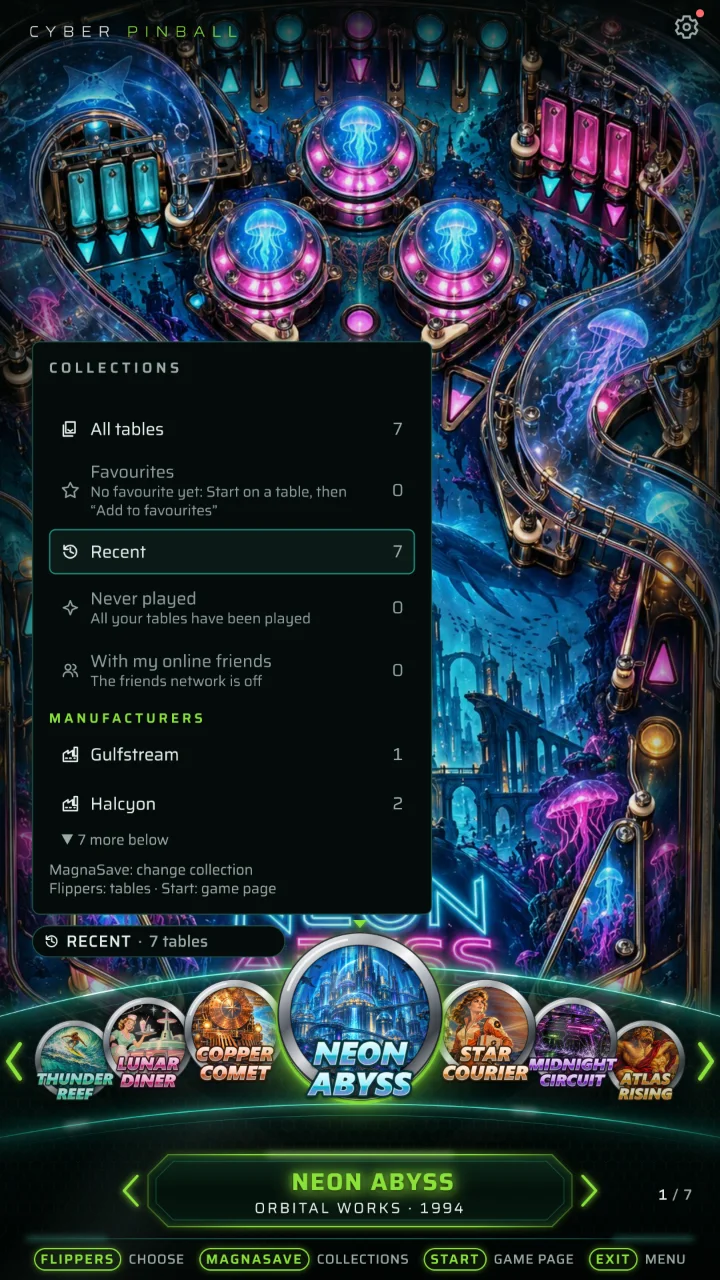
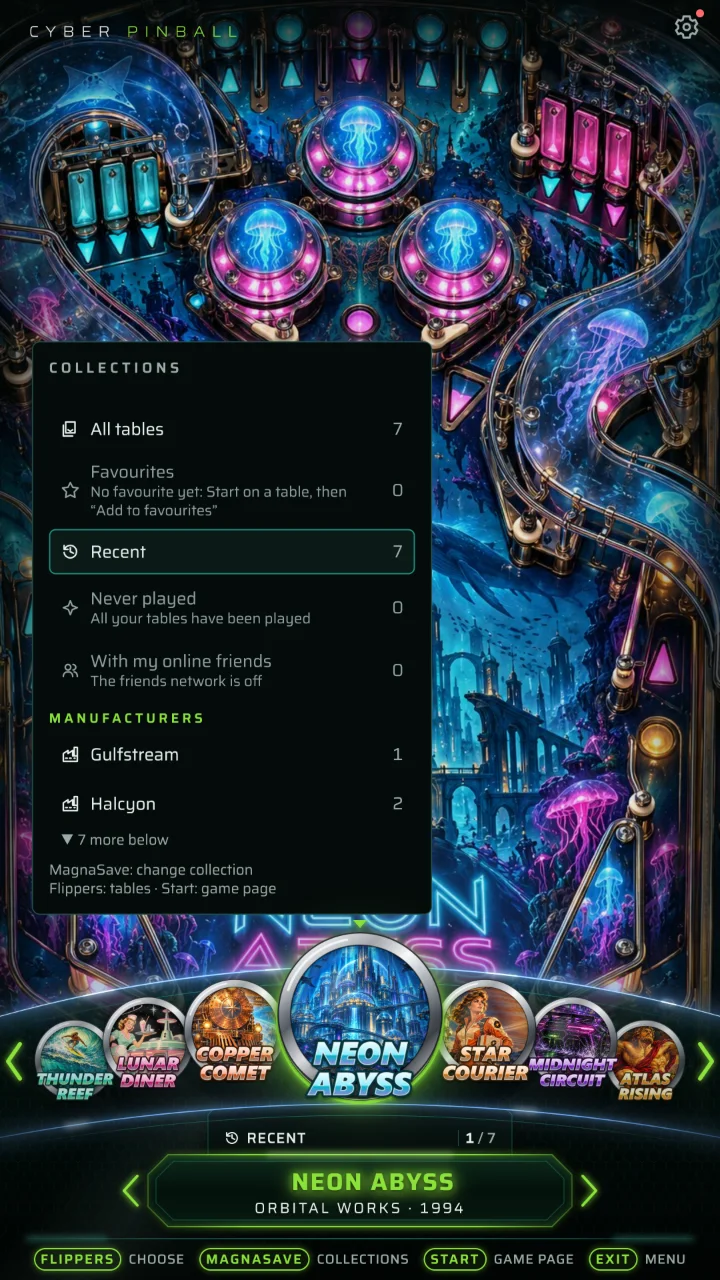
Cyber Pinball 0.1.8-essai.13

diff --git a/app/renderer/frontend.css b/app/renderer/frontend.css
@@ -367,28 +367,30 @@ html.menu-desktop .menu-count {
 /* ---------- Collections (collections.ts) : repère, étoile des favoris, liste des collections ---------- */
 
 /*
- * Repère de la collection active, zone fixe : « ☆ FAVORIS · 4 tables ». Cotes de Codex
- * (06/11/2026), en pixels de référence d'un petit côté de 1080, indépendantes du titre, du nombre
- * de tables et de la taille de la roue : 48 de haut, icône 24, texte 24. Liste en borne :
- * au-dessus des lignes ; liste au bureau : à la place de « Table sélectionnée » ; roues à
- * bandeau : au coin haut-gauche du bandeau. Verre fumé, texte blanc : le vert reste au choix de la table.
+ * Repère de la collection active, zone fixe : « ☆ FAVORIS │ 1 / 4 », la collection et la place de
+ * la table choisie dans celle-ci (choisi le 06/11/2026 parmi cinq propositions, d'après celle de
+ * Codex ; il remplace la pastille sur l'illustration et le compteur isolé). Roue Médaillons :
+ * dans l'encart dessiné sur le dessus de la plaque du titre (roues/medaillons.svg, couche du
+ * fond : l'arc inférieur de la roue passe devant son bord haut), sans fond à lui. Autres roues :
+ * la même ligne sur un fond sombre, au-dessus du titre. Liste : en tête des lignes. Rien n'y
+ * bouge d'une table à l'autre : seuls le chiffre et, d'une collection à l'autre, le nom changent.
  */
 .menu-shelf {
+  --s: var(--u);
   position: absolute;
   box-sizing: border-box;
-  display: flex;
+  display: grid;
+  grid-template-columns: max(calc(24 * var(--s)), calc(20 * var(--u))) minmax(0, 1fr) calc(1 * var(--s)) auto;
   align-items: center;
-  gap: calc(10 * var(--u));
+  gap: calc(10 * var(--s));
   left: calc(50 * var(--u));
+  right: calc(50 * var(--u));
   bottom: calc(776 * var(--u));
-  width: calc(600 * var(--u));
   height: calc(48 * var(--u));
-  padding: 0 calc(16 * var(--u));
-  border: calc(1.5 * var(--u)) solid var(--line-strong);
-  border-radius: calc(24 * var(--u));
+  padding: 0 calc(14 * var(--s));
+  border-radius: calc(5 * var(--s));
   background: var(--surface-sunken);
-  box-shadow: var(--halo-panel);
-  font-size: calc(24 * var(--u));
+  font-size: max(calc(22 * var(--s)), calc(20 * var(--u)));
   font-weight: 500;
   line-height: 1.2;
   white-space: nowrap;
@@ -399,18 +401,17 @@ html.menu-desktop .menu-count {
   display: none;
 }
 
-body.mouse .menu-shelf {
+body.mouse .menu-shelf:not(.locked) {
   cursor: pointer;
 }
 
 .menu-shelf-icon {
-  flex: none;
-  width: calc(24 * var(--u));
-  height: calc(24 * var(--u));
+  width: max(calc(24 * var(--s)), calc(20 * var(--u)));
+  height: max(calc(24 * var(--s)), calc(20 * var(--u)));
   color: var(--ink);
 }
 
-/* Seul un vrai libellé long (un fabricant) perd sa fin ; « Toutes », « Favoris », « Récentes » tiennent toujours. */
+/* Seul un vrai libellé long (un fabricant) perd sa fin ; jamais les chiffres. */
 .menu-shelf-label {
   min-width: 0;
   overflow: hidden;
@@ -419,29 +420,63 @@ body.mouse .menu-shelf {
   text-transform: uppercase;
 }
 
-.menu-shelf-sep,
-.menu-shelf-count {
-  flex: none;
+.menu-shelf-rule {
+  width: calc(1 * var(--s));
+  height: calc(24 * var(--s));
+  background: var(--line-strong);
+}
+
+.menu-shelf-position {
+  text-align: right;
+  font-variant-numeric: tabular-nums;
   color: var(--ink-muted);
 }
 
-/* Bureau, liste : à la place de « Table sélectionnée », au-dessus du titre, sur la colonne des lignes. */
+.menu-shelf-position b {
+  font-weight: 600;
+  color: var(--ink);
+}
+
+/* La place de la table est dans le repère : le compteur isolé n'est plus dessiné. */
+.menu.has-shelf .menu-count {
+  display: none !important;
+}
+
+/* Bureau, liste : au-dessus des lignes, qui commencent un peu plus bas. */
 html.menu-desktop .menu.layout-list .menu-shelf {
   left: calc(790 * var(--u));
+  right: calc(112 * var(--u));
+  top: calc(110 * var(--u));
   bottom: auto;
-  top: calc(652 * var(--u));
 }
 
-html.menu-desktop .menu.layout-list.has-shelf .menu-label {
-  display: none;
+html.menu-desktop .menu.layout-list.has-shelf .menu-nav {
+  top: calc(174 * var(--u));
+  height: calc(456 * var(--u));
 }
 
-/* Roues à bandeau : au coin haut-gauche du bandeau, au-dessus du bout de la roue. */
+/* Roues à bandeau sans encart dessiné : la ligne, sur son fond, au-dessus du titre. */
 .menu.menu-band .menu-shelf {
-  left: calc(var(--band-left) + 48 * var(--u));
-  bottom: calc(var(--band-bottom) + 484 * var(--b));
-  /* 380 : à 400 (cote de Codex), le bout du repère touchait la zone cliquable du médaillon central. */
-  width: calc(380 * var(--u));
+  --s: var(--b);
+  right: auto;
+  left: calc(var(--band-left) + 312 * var(--b));
+  bottom: calc(var(--band-bottom) + 200 * var(--b));
+  width: calc(456 * var(--b));
+  height: calc(40 * var(--b));
+}
+
+/* Médaillons : dans l'encart du dessus de la plaque (312 → 768, du pied de l'arc au haut de la plaque). */
+html[data-menu-band='medaillons'] .menu.menu-band .menu-shelf {
+  left: calc(var(--band-left) + 322 * var(--b));
+  bottom: calc(var(--band-bottom) + 190 * var(--b));
+  width: calc(436 * var(--b));
+  height: calc(46 * var(--b));
+  background: none;
+}
+
+/* Arche : la ligne au plus près du titre, sous les pieds de l'arche (revue de Codex). */
+html[data-menu-band='arche'] .menu.menu-band .menu-shelf {
+  bottom: calc(var(--band-bottom) + 194 * var(--b));
 }
 
 /* Étoile des favoris devant le titre : blanche, pleine ; sa place est gardée hors des favoris (le titre ne bouge pas). */
@@ -531,7 +566,7 @@ html.menu-desktop .menu.layout-list .collections-panel {
 .menu.menu-band .collections-panel {
   right: auto;
   left: calc(var(--band-left) + 48 * var(--u));
-  bottom: calc(var(--band-bottom) + 484 * var(--b) + 64 * var(--u));
+  bottom: calc(var(--band-bottom) + 540 * var(--b) + 8 * var(--u));
   width: calc(600 * var(--u));
   height: calc(860 * var(--u));
 }
@@ -900,11 +935,22 @@ html.menu-desktop[data-menu-band] #root {
     width: calc(170 * var(--b) + 24 * var(--u));
   }
 
-  /* Repère : sur la largeur de la colonne, au-dessus du bandeau réduit (cotes de Codex). */
-  html.menu-desktop .menu.menu-band .menu-shelf {
+  /*
+   * Repère des roues sans encart : la ligne, sur son fond, passe au-dessus du bandeau réduit, sur
+   * la largeur de la colonne (cotes de Codex). Médaillons : il reste dans son encart, au corps plancher.
+   */
+  /* Médaillons, bandeau réduit : dans l'encart, au corps de 22 (à 20, le texte paraissait fragile). */
+  html.menu-desktop[data-menu-band='medaillons'] .menu.menu-band .menu-shelf {
+    font-size: max(calc(22 * var(--b)), calc(22 * var(--u)));
+  }
+
+  html.menu-desktop:not([data-menu-band='medaillons']) .menu.menu-band .menu-shelf {
+    --s: var(--u);
     left: calc(var(--band-left) + 24 * var(--u));
     width: calc(var(--band-w) - 48 * var(--u));
     bottom: calc(var(--band-bottom) + 560 * var(--b));
+    height: calc(48 * var(--u));
+    background: var(--surface-sunken);
   }
 
   /*

diff --git a/app/renderer/frontend.js b/app/renderer/frontend.js
@@ -414,7 +414,7 @@ function menuPanel(s) {
   v.text.textContent = s.table.title;
   v.text.dataset.size = titleSize(s.table.title);
   v.star.toggleAttribute('data-on', Boolean(s.table.favorite));
-  fillShelf(v.shelf, s.shelf);
+  fillShelf(v.shelf, s.shelf, s);
   v.node.classList.toggle('has-shelf', Boolean(s.shelf));
   placeCollections(v.node, s.collections);
   v.meta.textContent = s.table.subtitle ?? '';
@@ -426,17 +426,19 @@ function menuPanel(s) {
 }
 
 /**
- * Repère de la collection active (« ★ Favoris · 4 tables ») : une zone fixe du menu, au coin
- * haut-gauche du bandeau de la roue (en haut de la liste) ; changer de table n'y change rien,
- * changer de collection n'en change que le texte. Mode invité restreint à une collection : le
- * cadenas à la place de l'icône, les MagnaSave n'en changent pas.
+ * Repère de la collection active, « ☆ FAVORIS │ 1 / 4 » : la collection et la place de la table
+ * choisie dedans, dans l'encart du dessus de la plaque du titre (frontend.css) ; il remplace le
+ * compteur. Changer de table n'en change que le chiffre, changer de collection le nom. Mode
+ * invité restreint à une collection : le cadenas à la place de l'icône, les MagnaSave n'en changent pas.
  */
-function fillShelf(box, shelf) {
+function fillShelf(box, shelf, s) {
   box.hidden = !shelf;
   if (!shelf) return;
   box.classList.toggle('locked', Boolean(shelf.locked));
   box.title = shelf.title ?? shelf.label;
-  box.replaceChildren(cyberIcon(shelf.locked ? 'lock' : shelf.icon, 'menu-shelf-icon'), el('span', 'menu-shelf-label', shelf.label), el('span', 'menu-shelf-sep', '·'), el('span', 'menu-shelf-count', shelf.countLabel));
+  const position = el('span', 'menu-shelf-position');
+  position.append(el('b', '', String(s.position)), ` / ${s.count}`);
+  box.replaceChildren(cyberIcon(shelf.locked ? 'lock' : shelf.icon, 'menu-shelf-icon'), el('span', 'menu-shelf-label', shelf.label), el('span', 'menu-shelf-rule'), position);
 }
 
 /**

diff --git a/docs/manuel.md b/docs/manuel.md
@@ -1544,7 +1544,7 @@ Le mode attente tire toujours ses tables au hasard, quel que soit l'ordre, parmi
 L'ordre range les tables ; une **collection** en choisit une partie. La roue, la liste, le compteur et le mode attente ne montrent que les tables de la collection active. Code : [packages/core/src/collections.ts](../packages/core/src/collections.ts) (les collections, la liste découpée, les favoris), [app/src/collections-menu.ts](../app/src/collections-menu.ts) (la collection active, la table gardée dans chacune, les MagnaSave), dessin dans `app/renderer/frontend.js` (`fillShelf`, `placeCollections`) et `frontend.css` (« Collections »). Maquette relue par Codex le 06/11/2026.
 
 - **Les collections**, dans cet ordre : **Toutes les tables** ; **Favoris** ; **Récentes**, les 10 dernières jouées, la plus récente d'abord (d'après `User.LastRun`) ; **Jamais jouées** (ni `User.StartCount` ni `User.LastRun`) ; **Avec mes amis en ligne**, les tables qu'au moins un ami en ligne a dans la même version (ce que le réseau des amis sait déjà de leurs bibliothèques, comme « Jouer avec un ami ») ; puis une par **fabricant** (de A à Z, « Bally » et « bally » ne font qu'un) et une par **décennie** (« Années 1990 »). Chacune garde l'« Ordre des tables » choisi, sauf Récentes.
-- **Le repère** : une pastille fixe, « ☆ FAVORIS · 4 tables », au coin haut-gauche du bandeau de la roue (en présentation liste : au-dessus des lignes en borne, à la place de « Table sélectionnée » au bureau). Sa place et sa taille ne dépendent ni de la table ni de la collection : changer de table n'y change rien, changer de collection n'en change que le texte.
+- **Le repère** : « ☆ FAVORIS │ 1 / 4 », la collection affichée et la place de la table choisie dedans, à la place de l'ancien compteur. Sur la roue Médaillons, il est dans un encart dessiné sur le dessus du cartouche du titre, en retrait sous la roue : l'arc inférieur passe devant son bord haut (couche du fond de `roues/medaillons.svg`, tirée de `docs/design-system/src/roues/medaillons.svg` par `roues.mjs`). Sur les autres roues, la même ligne sur un fond sombre, au-dessus du titre ; en présentation liste, en tête des lignes. Sa place et sa taille ne dépendent ni de la table ni de la collection : changer de table n'en change que le chiffre, changer de collection le nom (choisi le 06/11/2026 parmi cinq propositions, d'après celle de Codex).
 - **Changer de collection** : **MagnaSave gauche ou droit** sur la roue, collection précédente ou suivante, appliquée aussitôt, en boucle ; une collection vide est sautée. À chaque appui, la liste des collections paraît 4 s (en borne au-dessus du repère, au bureau dans le cadre du plateau, en présentation liste à la place des lignes) : la collection affichée y est cerclée de sarcelle (le vert reste au choix de la table), une collection vide est grisée avec sa raison (« Toutes vos tables ont déjà été jouées », « Aucun ami en ligne pour l'instant »), jamais cachée. La liste ne défile pas : elle montre les lignes que sa hauteur tient autour de l'active (`collectionsPanel`, `PANEL_BUDGET`), avec « ▲ 3 autres au-dessus ». Un flipper la ferme et change de table. À la souris : un clic sur le repère passe à la suivante, un clic sur une ligne l'ouvre.
 - **La table gardée** : chaque collection retient sa table ; on la retrouve en y revenant. Une table sortie de la collection (retirée des favoris) laisse sa place à sa voisine ; une collection devenue vide rend Toutes. La collection active est gardée d'un démarrage à l'autre (`<données>\collections.json`) ; « Table au démarrage » y choisit la table.
 - **Les favoris** : « Ajouter aux favoris » (ou « Retirer des favoris ») sur la fiche d'une table ; une étoile blanche pleine se pose devant le titre, sur la roue comme sur la fiche (jamais en vert ; sa place est gardée hors des favoris, le titre ne bouge pas). C'est le champ `User.Favorite` du `.info` (1 ou 0), celui qu'écrivent d'autres frontends : une table reprise d'une autre installation garde son favori, même quand la table d'ici a déjà ses statistiques (`mergeFavorite`, tableimport.ts).

diff --git a/docs/manual.md b/docs/manual.md
@@ -1544,7 +1544,7 @@ Attract mode still draws its tables at random, whatever the order, among those o
 The order sorts the tables; a **collection** picks some of them. The wheel, the list, the counter and attract mode only show the tables of the active collection. Code: [packages/core/src/collections.ts](../packages/core/src/collections.ts) (the collections, the cut list, favourites), [app/src/collections-menu.ts](../app/src/collections-menu.ts) (the active collection, the table kept in each one, the MagnaSave buttons), drawn in `app/renderer/frontend.js` (`fillShelf`, `placeCollections`) and `frontend.css` ("Collections"). Mockup reviewed by Codex on 06/11/2026.
 
 - **The collections**, in this order: **"Toutes les tables"** (All tables); **"Favoris"** (Favourites); **"Récentes"** (Recent), the last 10 played, most recent first (from `User.LastRun`); **"Jamais jouées"** (Never played: neither `User.StartCount` nor `User.LastRun`); **"Avec mes amis en ligne"** (With my online friends), the tables at least one online friend has in the same version (what the friends network already knows of their libraries, like "Jouer avec un ami"); then one per **manufacturer** (A to Z, "Bally" and "bally" are one) and one per **decade** ("Années 1990", the 1990s). Each keeps the chosen "Ordre des tables", except Recent.
-- **The marker**: a fixed pill, "☆ FAVORIS · 4 tables", at the top-left corner of the wheel band (in the list layout: above the rows on a cabinet, in place of "Table sélectionnée" on a desktop). Its place and size depend neither on the table nor on the collection: changing table changes nothing in it, changing collection only changes its text.
+- **The marker**: "☆ FAVORIS │ 1 / 4", the collection shown and the place of the selected table in it, in place of the former counter. On the Médaillons wheel, it sits in an inset drawn on top of the title cartouche, set back under the wheel: the lower arc passes in front of its top edge (background layer of `roues/medaillons.svg`, drawn from `docs/design-system/src/roues/medaillons.svg` by `roues.mjs`). On the other wheels, the same line on a dark background, above the title; in the list layout, at the head of the rows. Its place and size depend neither on the table nor on the collection: changing table only changes the number, changing collection the name (chosen on 06/11/2026 among five proposals, from Codex's one).
 - **Changing collection**: **left or right MagnaSave** on the wheel, previous or next collection, applied at once, looping; an empty collection is skipped. At each press, the list of collections shows for 4 s (on a cabinet above the marker, on a desktop in the playfield frame, in the list layout in place of the rows): the collection shown is ringed in teal (green stays for the table choice), an empty collection is greyed out with its reason ("Toutes vos tables ont déjà été jouées", "Aucun ami en ligne pour l'instant"), never hidden. The list doesn't scroll: it shows the rows its height holds around the active one (`collectionsPanel`, `PANEL_BUDGET`), with "▲ 3 autres au-dessus" (3 more above). A flipper closes it and changes table. With the mouse: a click on the marker goes to the next one, a click on a row opens it.
 - **The table kept**: each collection remembers its table; you find it again when you come back. A table that left the collection (removed from favourites) gives its place to its neighbour; a collection that became empty gives back All. The active collection is kept from one start to the next (`<data>\collections.json`); "Table au démarrage" picks the table in it.
 - **Favourites**: "Ajouter aux favoris" (Add to favourites, or "Retirer des favoris") on a table's page; a filled white star sits before the title, on the wheel as on the page (never green; its place is kept outside favourites, the title doesn't move). It is the `User.Favorite` field of the `.info` (1 or 0), the one other frontends write: a table taken over from another installation keeps its favourite, even when the table here already has its statistics (`mergeFavorite`, tableimport.ts).

diff --git a/docs/fonctionnalites.md b/docs/fonctionnalites.md
@@ -271,12 +271,12 @@ Au premier démarrage, l'assistant enchaîne toutes les étapes. Ensuite, Menu s
 ### Collections et favoris
 
 - **Collections** sur la roue : Toutes, Favoris, Récentes, Jamais jouées, Avec mes amis en ligne, chaque fabricant, chaque décennie. **MagnaSave gauche ou droit** passe à la précédente ou à la suivante, aussitôt ; la liste des collections paraît quelques secondes, une collection vide grisée avec sa raison.
-- **Un repère fixe** sur la roue (« Favoris · 12 tables ») : il ne bouge jamais quand on change de table. Chaque collection garde sa table.
+- **Un repère fixe** sur le cartouche du titre (« ☆ FAVORIS │ 3 / 12 ») : la collection et la place de la table, qui ne bougent jamais quand on change de table. Chaque collection garde sa table.
 - **Favoris** : « Ajouter aux favoris » sur la fiche, une étoile blanche devant le titre ; le favori d'une autre installation est repris tel quel.
 - **Mode invité limité à une collection** (les favoris, un fabricant…), et **mode attente** dans la collection affichée.
 
 <p align="center">
-  <img src="images/fr/features/collections.webp?v=3fee473dd4" width="300" alt="La roue sur la collection Récentes, la liste des collections ouverte : Toutes et Récentes, puis Favoris, Jamais jouées et Avec mes amis en ligne grisées avec leur raison, puis les fabricants.">
+  <img src="images/fr/features/collections.webp?v=72d918a1d6" width="300" alt="La roue sur la collection Récentes, la liste des collections ouverte : Toutes et Récentes, puis Favoris, Jamais jouées et Avec mes amis en ligne grisées avec leur raison, puis les fabricants.">
   <img src="images/fr/features/favorites.webp?v=fc0c81858c" width="300" alt="La fiche d'une table ajoutée aux favoris : l'étoile blanche après son titre, « Retirer des favoris ».">
 </p>
 

diff --git a/docs/tests-manuels.md b/docs/tests-manuels.md
@@ -1563,7 +1563,7 @@ La borne avec au moins dix tables de plusieurs fabricants et décennies, dont ce
 
 | # | Scénario | Comment | Résultat attendu |
 |---|---|---|---|
-| 816 | Le repère ne bouge pas | Au menu des tables, flippers gauche et droit plusieurs fois, en roue puis en liste (Médias, son et attente > Roue du menu). | « TOUTES · <n> tables » reste à la même place et à la même taille, au coin haut-gauche de la roue (en liste : au-dessus des lignes en borne, à la place de « Table sélectionnée » au bureau) ; seul le contenu de la roue change. |
+| 816 | Le repère ne bouge pas | Au menu des tables, flippers gauche et droit plusieurs fois, en roue puis en liste (Médias, son et attente > Roue du menu). | « TOUTES │ <i> / <n> » reste à la même place et à la même taille, dans l'encart du dessus du cartouche du titre (en liste : en tête des lignes) ; seuls le chiffre et le contenu de la roue changent, l'arc de la roue passe devant le bord haut de l'encart. |
 | 817 | Passer d'une collection à l'autre | MagnaSave droit, plusieurs fois, puis MagnaSave gauche. | À chaque appui, la roue passe aussitôt à la collection suivante (Favoris, Récentes, Jamais jouées, un fabricant, une décennie…), en boucle ; la liste des collections paraît 4 s, l'active cerclée de sarcelle ; une collection vide y est grisée avec sa raison et n'est jamais ouverte. |
 | 818 | Un flipper ferme la liste | MagnaSave droit, puis aussitôt un flipper. | La liste se ferme et la table change dans la collection affichée. |
 | 819 | Chaque collection garde sa table | Dans Toutes, aller à la cinquième table ; MagnaSave droit (Favoris), choisir une autre table ; MagnaSave gauche. | Retour à Toutes sur la cinquième table ; MagnaSave droit retrouve la table choisie dans Favoris. |

diff --git a/docs/features.md b/docs/features.md
@@ -270,12 +270,12 @@ On first start, the wizard runs through every step. Afterwards, System menu > "C
 ### Collections and favourites
 
 - **Collections** on the wheel: All, Favourites, Recent, Never played, With my online friends, each manufacturer, each decade. **Left or right MagnaSave** goes to the previous or next one, at once; the list of collections shows for a few seconds, an empty collection greyed out with its reason.
-- **A fixed marker** on the wheel ("Favourites · 12 tables"): it never moves when you change table. Each collection keeps its table.
+- **A fixed marker** on the title cartouche ("☆ FAVOURITES │ 3 / 12"): the collection and the table's place, which never move when you change table. Each collection keeps its table.
 - **Favourites**: "Add to favourites" on the table page, a white star before the title; a favourite from another installation is taken as it is.
 - **Guest mode restricted to a collection** (favourites, a manufacturer…), and **attract mode** within the collection shown.
 
 <p align="center">
-  <img src="images/en/features/collections.webp?v=487a2070ff" width="300" alt="The wheel on the Recent collection, the list of collections open: All and Recent, then Favourites, Never played and With my online friends greyed out with their reason, then the manufacturers.">
+  <img src="images/en/features/collections.webp?v=56e68b719f" width="300" alt="The wheel on the Recent collection, the list of collections open: All and Recent, then Favourites, Never played and With my online friends greyed out with their reason, then the manufacturers.">
   <img src="images/en/features/favorites.webp?v=c12c904b57" width="300" alt="The page of a table added to favourites: the white star after its title, “Remove from favourites”.">
 </p>
 

diff --git a/CHANGELOG.md b/CHANGELOG.md
@@ -23,6 +23,7 @@ son interface).
 - Collections sur la roue du menu des tables : Toutes, Favoris, Récentes, Jamais jouées, Avec mes amis en ligne, chaque fabricant et chaque décennie. MagnaSave gauche ou droit passe à la précédente ou à la suivante ; la liste des collections paraît quelques secondes, une collection vide grisée avec sa raison. Un repère fixe au-dessus de la roue dit laquelle est affichée et combien elle a de tables ; chaque collection garde sa table.
 - Favoris : « Ajouter aux favoris » sur la fiche d'une table, une étoile blanche devant son titre. Le favori d'une table reprise d'une autre installation est gardé.
 - Mode invité : « Tables proposées » le limite à une collection (les favoris, un fabricant…) ; au déverrouillage, la collection d'avant revient. Le mode attente ne montre que les tables de la collection affichée.
+- Collections : la collection affichée et la place de la table (« ☆ FAVORIS │ 1 / 4 ») tiennent sur une seule ligne, dans un encart sur le dessus du cartouche du titre, à la place de la pastille et du compteur.
 
 - Amis : une panne du réseau local (« addMembership EHOSTUNREACH », borne démarrée avant son réseau, VPN, câble débranché) ne bloque plus le réseau des amis. Internet continue, « Partage et réseau » affiche « Réseau local : indisponible » avec sa raison, et le réseau local se rétablit tout seul dès qu'une carte réseau est prête. Un démarrage raté se réessaie aussi tout seul, sans relancer Cyber Pinball.
 - Start sur la roue, dans Médias, son et attente : « ouvrir la fiche » (comme avant) ou « jouer directement ». En « jouer directement », la fiche s'ouvre à Start maintenu (ou F6 d'un clavier) ; la ligne d'aide et l'aide-mémoire le disent.

diff --git a/docs/manual-tests.md b/docs/manual-tests.md
@@ -1563,7 +1563,7 @@ The cabinet with at least ten tables from several manufacturers and decades, som
 
 | # | Scenario | How | Expected result |
 |---|---|---|---|
-| 816 | The marker doesn't move | On the table menu, left and right flippers several times, on the wheel then in the list (Médias, son et attente > Roue du menu). | "TOUTES · <n> tables" stays in the same place and at the same size, at the top-left corner of the wheel (in the list: above the rows on a cabinet, in place of "Table sélectionnée" on a desktop); only the wheel's content changes. |
+| 816 | The marker doesn't move | On the table menu, left and right flippers several times, on the wheel then in the list (Médias, son et attente > Roue du menu). | "TOUTES │ <i> / <n>" stays in the same place and at the same size, in the inset on top of the title cartouche (in the list: at the head of the rows); only the number and the wheel's content change, the wheel's arc passes in front of the inset's top edge. |
 | 817 | Moving from one collection to another | Right MagnaSave, several times, then left MagnaSave. | At each press, the wheel switches at once to the next collection (Favourites, Recent, Never played, a manufacturer, a decade…), looping; the list of collections shows for 4 s, the active one ringed in teal; an empty collection is greyed out there with its reason and never opened. |
 | 818 | A flipper closes the list | Right MagnaSave, then a flipper right away. | The list closes and the table changes within the collection shown. |
 | 819 | Each collection keeps its table | In All, go to the fifth table; right MagnaSave (Favourites), pick another table; left MagnaSave. | Back to All on the fifth table; right MagnaSave finds the table picked in Favourites again. |

diff --git a/CHANGELOG.en.md b/CHANGELOG.en.md
@@ -21,6 +21,7 @@ its own language before installing, and in the GitHub release. Short sentences, 
 - Collections on the table menu wheel: All, Favourites, Recent, Never played, With my online friends, each manufacturer and each decade. Left or right MagnaSave goes to the previous or next one; the list of collections shows for a few seconds, an empty collection greyed out with its reason. A fixed marker above the wheel says which one is shown and how many tables it has; each collection keeps its table.
 - Favourites: "Ajouter aux favoris" (Add to favourites) on a table's page, a white star before its title. The favourite of a table taken over from another installation is kept.
 - Guest mode: "Tables proposées" (Tables offered) restricts it to a collection (favourites, a manufacturer…); on unlocking, the previous collection comes back. Attract mode only shows the tables of the collection shown.
+- Collections: the collection shown and the table's place ("☆ FAVOURITES │ 1 / 4") sit on a single line, in an inset on top of the title cartouche, in place of the pill and the counter.
 
 - Friends: a local network failure ("addMembership EHOSTUNREACH", a cabinet started before its network, a VPN, an unplugged cable) no longer blocks the friends network. The Internet carries on, "Sharing and network" shows "Local network: unavailable" with its reason, and the local network comes back by itself as soon as a network adapter is ready. A failed start is also retried by itself, without restarting Cyber Pinball.
 - Start on the wheel, in Media, sound and attract: "open the game page" (as before) or "play right away". With "play right away", the game page opens on a held Start (or F6 on a keyboard); the help line and the controls reminder say so.
